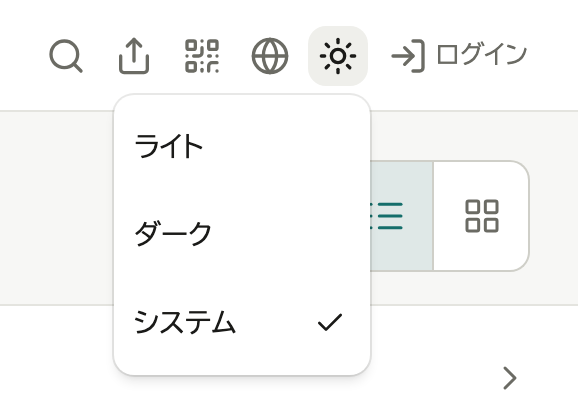
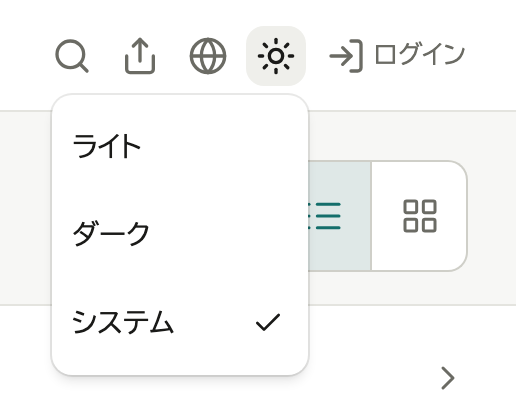
ヘッダーの「他の端末からつなぐ」を外し、共有のボタンに寄せる
共有のボタンをトップページで押せば、出る QR コードは「他の端末からつなぐ」と同じアドレスになる。
同じ役割のボタンが2つ並ぶと、どちらを押せばよいか迷わせ、ヘッダーも狭くなる。

- 共有で使い続ける文言は、connection_info_ から share_ のキーへ移した。
- マニュアル・紹介のサイトの案内と画像を、共有のボタンの「QRコードを表示...」に書き換えた。
- ボタンが1つ減って幅 320px でも収まるので、ロゴと操作の間は 16px のままにした。

diff --git a/frontend/src/lib/components/qr-address.svelte b/frontend/src/lib/components/qr-address.svelte
@@ -9,7 +9,7 @@
 	import { CopiedState } from '$lib/copied-state.svelte';
 	import { qrCardClass, qrImageClass } from '$lib/qr-card';
 
-	// ほかの端末で開くアドレスの、QR コードと控えるための全文・コピー (「他の端末からつなぐ」とページの共有)。
+	// ほかの端末で開くアドレスの、QR コードと控えるための全文・コピー (ページの共有)。
 	let { url, qrAlt }: { url: string; qrAlt: string } = $props();
 
 	let qrDataUrl = $state<string | null>(null);
@@ -57,12 +57,7 @@
 		<!-- アイコンのみ (→ GitHub等の「表示中テキストをコピー」ボタンの作法に合わせる)。
 		     成功のフィードバックはアイコンを一時的にチェックマークへ切り替えるだけにし
 		     (トーストはこの軽い操作には大げさ)、失敗時だけトーストで知らせる。 -->
-		<Button
-			variant="outline"
-			size="icon-sm"
-			onclick={copyUrl}
-			aria-label={m.connection_info_copy_button()}
-		>
+		<Button variant="outline" size="icon-sm" onclick={copyUrl} aria-label={m.share_copy_button()}>
 			{#if copyFeedback.copied}
 				<CheckIcon />
 			{:else}

diff --git a/frontend/src/routes/+layout.svelte b/frontend/src/routes/+layout.svelte
@@ -17,7 +17,6 @@
 	import ErrorDialog from '$lib/components/error-dialog.svelte';
 	import ModeToggle from '$lib/components/mode-toggle.svelte';
 	import LanguageToggle from '$lib/components/language-toggle.svelte';
-	import ConnectionInfoDialog from '$lib/components/connection-info-dialog.svelte';
 	import ShareButton from '$lib/components/share-button.svelte';
 	import UserMenu from '$lib/components/user-menu.svelte';
 	import AudioPlayerBar from '$lib/components/audio-player-bar.svelte';
@@ -111,7 +110,7 @@
 
 <div class="flex min-h-svh flex-col">
 	<header
-		class="relative z-10 flex h-13 items-center justify-between gap-2 border-b bg-background px-4 md:h-14 md:gap-4 md:px-6"
+		class="relative z-10 flex h-13 items-center justify-between gap-4 border-b bg-background px-4 md:h-14 md:px-6"
 	>
 		<!-- 押せる範囲 (::after) だけを 44px に広げる (→ docs/ui.md「UI 全般」)。 -->
 		<a
@@ -129,7 +128,6 @@
 				<span class="sr-only">{m.search_nav_label()}</span>
 			</a>
 			<ShareButton />
-			<ConnectionInfoDialog />
 			<LanguageToggle />
 			<ModeToggle />
 			{#if page.data.user}

diff --git a/frontend/src/lib/components/share-button.svelte b/frontend/src/lib/components/share-button.svelte
@@ -103,11 +103,11 @@
 		{:else if url}
 			<QrAddress {url} qrAlt={m.share_qr_alt()} />
 		{:else if connection?.port === 0}
-			<p class="text-sm text-muted-foreground">{m.connection_info_bind_local()}</p>
+			<p class="text-sm text-muted-foreground">{m.share_bind_local()}</p>
 		{:else if connection}
-			<p class="text-sm text-muted-foreground">{m.connection_info_unavailable()}</p>
+			<p class="text-sm text-muted-foreground">{m.share_unavailable()}</p>
 		{:else}
-			<p class="text-sm text-muted-foreground">{m.connection_info_load_failed()}</p>
+			<p class="text-sm text-muted-foreground">{m.share_load_failed()}</p>
 		{/if}
 	</Dialog.Content>
 </Dialog.Root>

diff --git a/docs/manual/ja/11-troubleshooting.md b/docs/manual/ja/11-troubleshooting.md
@@ -5,14 +5,14 @@
 次を順に確かめます。
 
 1. 開く端末が、サーバーのパソコンと同じ Wi-Fi につながっているか
-2. 「他の端末からつなぐ」(画面右上の QR コードのアイコン) に出ている今のアドレスで開いているか
+2. 画面右上の共有のアイコンの「QRコードを表示...」に出ている今のアドレスで開いているか
 
-   ![他の端末からつなぐの画面](images/quickstart-connect.webp)
+   ![「このページを共有」の画面](images/share-qr.webp)
 
 3. サーバーのパソコンの設定
    - **Windows**: 「設定」→「ネットワークとインターネット」→ 使っているネットワーク →「ネットワーク プロファイルの種類」を「プライベート ネットワーク」にする
    - **macOS**: 「システム設定」→「ネットワーク」→「ファイアウォール」→「オプション...」で WebLAV を「外部からの接続を許可」にする
-   - **Ubuntu**: ファイアウォール (ufw) を有効にしているときは、ターミナルで `sudo ufw allow 3000/tcp` と打つ (「他の端末からつなぐ」のアドレスの `:` の後ろが 3000 でなければ、その番号にする)
+   - **Ubuntu**: ファイアウォール (ufw) を有効にしているときは、ターミナルで `sudo ufw allow 3000/tcp` と打つ (そのアドレスの `:` の後ろが 3000 でなければ、その番号にする)
 4. 開く端末の設定 (Safari では開けるのに Chrome などで開けないとき)
    - **iPhone・iPad**: 「設定」→「プライバシーとセキュリティ」→「ローカルネットワーク」で、ブラウザをオンにする
    - **Mac**: 「システム設定」→「プライバシーとセキュリティ」→「ローカルネットワーク」で、ブラウザをオンにする
@@ -22,7 +22,7 @@
 ## ポートの番号がずれた
 
 メニューに「ポート 3000 を使えないため、3001 で動いています」と出ているときです。
-「他の端末からつなぐ」に出ている今のアドレスで開きます。
+画面右上の共有のアイコンの「QRコードを表示...」に出ている今のアドレスで開きます。
 
 いつもずれるときは、ポートを変えます。
 

diff --git a/docs/manual/en/11-troubleshooting.md b/docs/manual/en/11-troubleshooting.md
@@ -5,14 +5,14 @@
 Check these in order.
 
 1. Check that the device is connected to the same Wi-Fi as the server computer.
-2. Check that you are opening the current address shown in “Connect from another device” (the QR code icon at the top right).
+2. Check that you are opening the current address shown by “Show QR code...” under the share icon at the top right.
 
-   ![The Connect from another device screen](images/quickstart-connect.webp)
+   ![The Share this page screen](images/share-qr.webp)
 
 3. Check the server computer settings.
    - **Windows**: In Settings > Network & internet > the network you use, set “Network profile type” to “Private network”.
    - **macOS**: In System Settings > Network > Firewall > Options, set WebLAV to “Allow incoming connections”.
-   - **Ubuntu**: If you have turned on the firewall (ufw), enter `sudo ufw allow 3000/tcp` in Terminal (if the number after `:` in the address in “Connect from another device” is not 3000, use that number).
+   - **Ubuntu**: If you have turned on the firewall (ufw), enter `sudo ufw allow 3000/tcp` in Terminal (if the number after `:` in that address is not 3000, use that number).
 4. Check the device settings, if it opens in Safari but not Chrome or another browser.
    - **iPhone and iPad**: In Settings > Privacy & Security > Local Network, turn on the browser.
    - **Mac**: In System Settings > Privacy & Security > Local Network, turn on the browser.
@@ -22,7 +22,7 @@ Check these in order.
 ## The port number changed
 
 This applies when the menu says “Port 3000 was unavailable; running on 3001”.
-Open the current address shown in “Connect from another device”.
+Open the current address shown by “Show QR code...” under the share icon at the top right.
 
 If it changes often, change the port.
 

diff --git a/docs/distribution.md b/docs/distribution.md
@@ -144,7 +144,7 @@ Windows では、Store の MSIX (→ 「MSIX (Windows)」) で入れ、ログイ
 - **設定のポートが使えなければ、上の番号へ最大10個ずらして起動する** (`OnPortUnavailable::TryNext`)。使えないとみなすのは、使用中と、Windows で Hyper-V などが予約した範囲 (アクセス拒否) のとき。
   - ずらした番号は `config.toml` に書かず、起動のたびに設定のポートから試す。ずれるのは別のソフトがポートを取ったような事故と見て、原因を取り除けば元に戻るようにするため。いつもずれるなら、管理画面のサイト設定でポートを変えてもらう (→ ui.md「UI 全般」)。
   - ずれている間は、メニューの先頭に押せない項目で「ポート 3000 を使えないため、3001 で動いています」と出し続ける。ほかの端末のブックマークが開けない理由に気づけるように。tray-icon には通知 (バルーン) を出す口が無いため、メニューに出す。
-  - mDNS と「他の端末からつなぐ」は、実際のポートを案内する。
+  - mDNS と共有で渡すアドレスは、実際のポートを案内する。
   - `weblav-service` はずらさずに失敗する (`Fail`)。開発や e2e で動かすとき、黙って別のポートで動かないように。
 - **「セットアップ」は、`admin` がまだ1人もいないときだけ出す** (→ access.md「初回セットアップ」)。3秒ごとに `/api/v1/setup/status` へ問い合わせて出し入れする。
   HTTP クライアントの crate は足さず、std の TCP で1往復する。

diff --git a/docs/manual/ja/07-viewing.md b/docs/manual/ja/07-viewing.md
@@ -4,11 +4,11 @@
 
 WebLAV を動かしているパソコンと同じ Wi-Fi につないだ端末で、教えてもらったアドレスを開くか、QR コードを読み取ります。
 
-アドレスと QR コードは、WebLAV の画面右上の QR コードのアイコンを押すと出ます。
+アドレスと QR コードは、WebLAV の画面右上の共有のアイコンを押して「QRコードを表示...」を選ぶと出ます。出るのは開いているページのアドレスなので、フォルダなどを開いてから押すと、そのページを直接開いてもらえます。
 
 ![画面右上のアイコン](images/header-login.webp)
 
-![他の端末からつなぐの画面](images/quickstart-connect.webp)
+![「このページを共有」の画面](images/share-qr.webp)
 
 ログインした人にだけ見えるものもあります (→ [ログインと表示](03-account.md))。
 

diff --git a/docs/manual/en/07-viewing.md b/docs/manual/en/07-viewing.md
@@ -4,11 +4,11 @@
 
 On a device connected to the same Wi-Fi as the computer running WebLAV, open the address you were given or scan the QR code.
 
-Select the QR code icon at the top right of WebLAV to find the address and QR code.
+Select the share icon at the top right of WebLAV and choose “Show QR code...” to find the address and QR code. It shows the address of the page you have open, so open a folder or other page first to let others open that page directly.
 
 ![The icon at the top right](images/header-login.webp)
 
-![The Connect from another device screen](images/quickstart-connect.webp)
+![The Share this page screen](images/share-qr.webp)
 
 Some contents are visible only to signed-in users (→ [Sign in and display](03-account.md)).
 

diff --git a/site/src/content/index.md b/site/src/content/index.md
@@ -42,7 +42,7 @@ PDF・動画・画像も、ページの中でそのまま開けます。
 
 パソコンで QR コードを出して、スマホのカメラで読めば開けます。
 
-![パソコンのブラウザの画面。「他の端末からつなぐ」のダイアログに、QR コードとアドレス（http://home-pc.local:3000）が出ている](./images/desktop-connect.png)
+![パソコンのブラウザの画面。「このページを共有」のダイアログに、QR コードとアドレス（http://home-pc.local:3000/）が出ている](./images/desktop-share-qr.png)
 
 見せるものは、パソコンのブラウザの管理画面で登録します。
 
